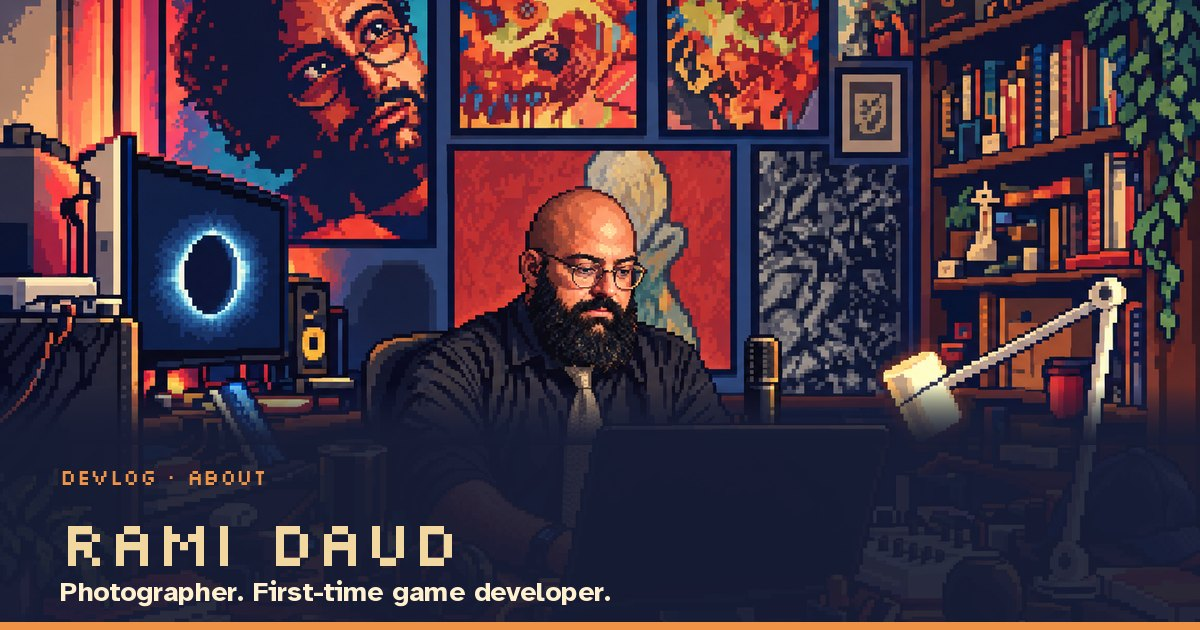
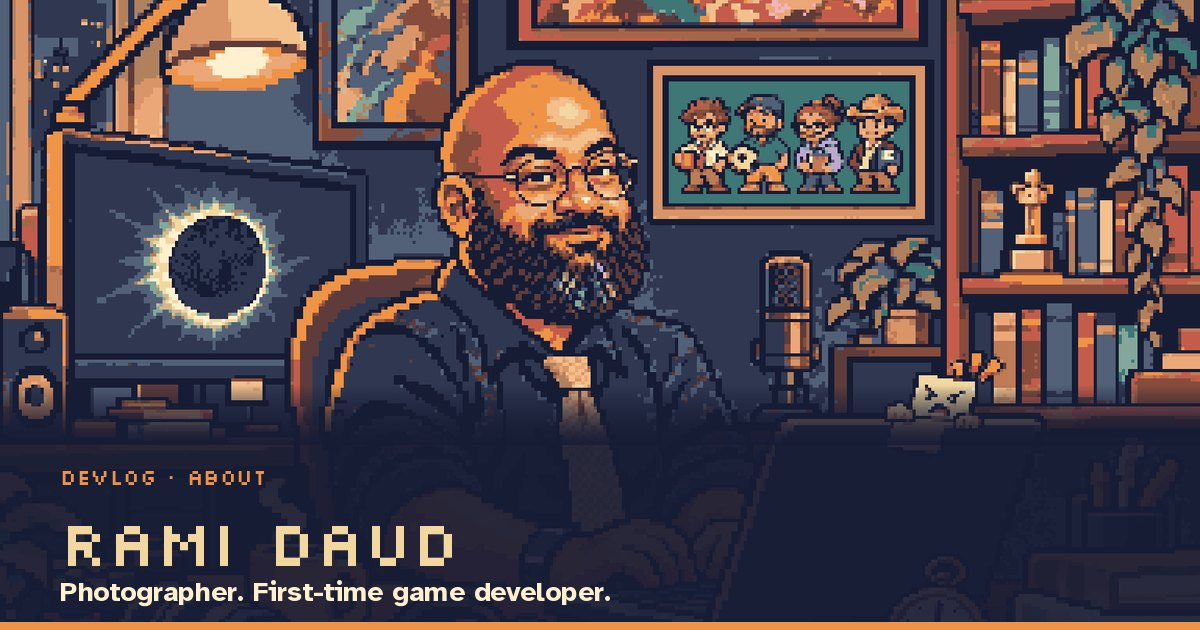
About page and share card: ChatGPT's new studio portrait (v2), approved by Rami
Claude-Session: https://claude.ai/code/session_01Lig4WMWRCVLc1Xd5Xfcw9r

diff --git a/devlog/about/index.html b/devlog/about/index.html
@@ -167,7 +167,7 @@
 
     <div class="memo-strip"><span class="re">PERSONNEL FILE · RE:</span> <strong>Rami Daud</strong></div>
     <section class="ab-file">
-      <figure class="ab-portrait"><img src="../../assets/bio/rami-studio-pixel-v1.png" alt="Pixel-art portrait of Rami at his computer in a warmly lit studio, surrounded by artwork, books and creative equipment" width="1536" height="1024"></figure>
+      <figure class="ab-portrait"><img src="../../assets/bio/rami-studio-pixel-v2.png" alt="Pixel-art portrait of Rami, bald with a full beard and round glasses, typing at his laptop in a warmly lit studio with an eclipse on the monitor and the four game heroes framed on the wall" width="1536" height="1024"></figure>
       <div>
         <div class="ab-id">
           <div class="ab-eyebrow">Employee of the month (self-nominated)</div>

diff --git a/devlog/scripts/share_cards.py b/devlog/scripts/share_cards.py
@@ -21,7 +21,7 @@ PAGES = [
     ("game", "assets/title-screen/title-bg-lobby.jpg", "FREE TO PLAY IN YOUR BROWSER", "MIDLIFE SURVIVORS", "Survive from 40 to 65. Your coffee fires on its own."),
     ("devlog", "devlog/img/office-key-art-hero.jpg", "DEVLOG · INTERNAL MEMOS", "MAKING MIDLIFE SURVIVORS", "A photographer builds his first video game with AI."),
     ("art-room", "assets/title-screen/02-midlife-panorama-v1.png", "DEVLOG · THE ART ROOM", "WALK THE NEW OFFICE", "The newest art, before it reaches the game."),
-    ("about", "assets/bio/rami-studio-pixel-v1.png", "DEVLOG · ABOUT", "RAMI DAUD", "Photographer. First-time game developer."),
+    ("about", "assets/bio/rami-studio-pixel-v2.png", "DEVLOG · ABOUT", "RAMI DAUD", "Photographer. First-time game developer."),
     ("enemies", "@sprites", "ART REVIEW · BATCH 1", "MEET THE SWARM", "Bills, Spam Likely, the 3 AM Thought and friends."),
     ("roadmap", "devlog/img/office-key-art-hero.jpg", "PROJECT TRACKER", "THE ROADMAP", "What's done, what's next, and what's parked."),
 ]
